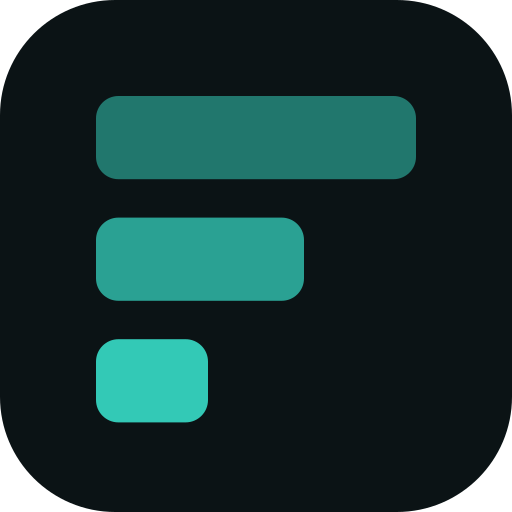
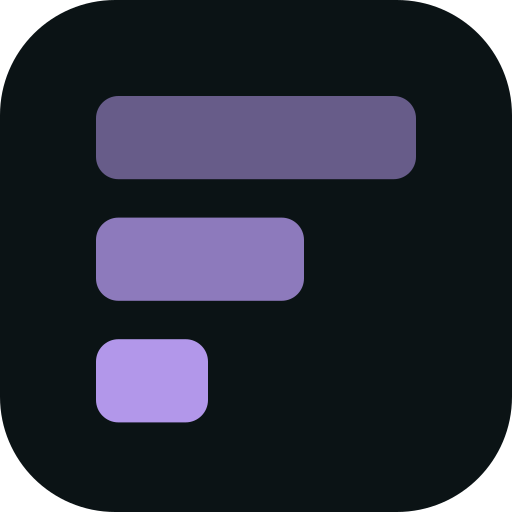
fix(brand): draw the brand assets from the theme tokens and regenerate them
The OG image and every favicon still shipped `#33c9b6`, the jade primary two
redesigns had removed. `generateBrandAssets.mjs` declared its four colours as
hex literals, so nothing tied them to `src/index.css` and a palette change left
the assets silently stale.

All four are now resolved from the dark theme block by `brandPalette.mjs`:
BRAND from `--color-primary`, INK from `--color-text`, CANVAS from
`--color-canvas`, MUTED from `--color-text-muted`. Only BRAND had actually gone
wrong — the three neutrals survived both redesigns unchanged — but all four
carried the same exposure, one palette change away from the identical bug.

BRAND maps to the accent rather than `--color-primary-fill`: the mark bars, the
top rule and the footer line are graphical marks on a dark ground, which is the
accent's job. A missing token throws rather than falling back; the silent
fallback in the SEO script is what kept localhost in production for a phase.

The first drift check written for this was close to worthless and is worth
naming. Asserting the generator's colours equal the tokens cannot fail once the
generator reads those tokens — both sides read one file and always agree. The
failure that actually happened was that nobody re-ran `npm run assets`, so the
*committed assets* kept the old colour. The real assertion reads
`public/favicon.svg`, the one committed asset that is text and is written by the
same run as the PNGs, and fails if it carries a colour the palette no longer
[…]

Changed region(s): [[0.1875, 0.1875, 0.8125, 0.375], [0.1875, 0.4062, 0.5938, 0.5938], [0.1875, 0.6562, 0.4062, 0.8438]]

diff --git a/client/tests/config/brandPalette.test.ts b/client/tests/config/brandPalette.test.ts
@@ -1,0 +1,86 @@
+import { describe, expect, it } from 'vitest';
+// @ts-expect-error -- a build script, deliberately plain .mjs rather than part
+// of either TypeScript project: it runs from npm before Vite or tsc are
+// involved, and giving it a tsconfig would mean compiling it first.
+import * as brandPalette from '../../scripts/brandPalette.mjs';
+import { readFileSync } from 'node:fs';
+import { resolve } from 'node:path';
+import { readThemeTokens, type Rgb } from '../utils/contrast';
+
+const readBrandPalette = brandPalette.readBrandPalette as (css?: string) => Record<string, string>;
+const SOURCE_TOKENS = brandPalette.SOURCE_TOKENS as Record<string, string>;
+
+const hex = ([r, g, b]: Rgb): string =>
+  `#${[r, g, b].map((value) => value.toString(16).padStart(2, '0')).join('')}`;
+
+/**
+ * The drift check for the bug that shipped jade favicons and a jade OG image
+ * for two redesigns after the app had stopped using jade.
+ *
+ * `generateBrandAssets.mjs` declared its four colours as hex literals, so
+ * nothing connected them to `src/index.css` and a palette change left them
+ * silently stale. The generator now derives them; this asserts the derivation
+ * agrees with the tokens the app actually ships.
+ *
+ * The comparison is deliberately against `readThemeTokens` — a second,
+ * independently written reader of the same file — rather than against literals
+ * restated here. Literals are what caused the bug, and that reader is exercised
+ * by every assertion in `tokenContrast.test.ts`, so a parser that quietly
+ * mis-read would break those first.
+ */
+describe('brand asset palette', () => {
+  const tokens = readThemeTokens('dark');
+  const palette = readBrandPalette();
+
+  it.each(Object.entries(SOURCE_TOKENS))('draws %s from the shipped --%s token', (name, token) => {
+    const shipped = tokens[token];
+
+    expect(shipped, `--${token} is missing from the dark theme block`).toBeDefined();
+    expect(palette[name]).toBe(hex(shipped));
+  });
+
+  it('resolves every colour the generator needs', () => {
+    expect(Object.keys(palette).sort()).toEqual(Object.keys(SOURCE_TOKENS).sort());
+    for (const value of Object.values(palette)) {
+      expect(value).toMatch(/^#[0-9a-f]{6}$/);
+    }
+  });
+
+  // The specific failure this exists to prevent: the app moves to a new primary
+  // and the committed assets keep the old one.
+  it('no longer resolves to the jade primary the redesign removed', () => {
+    expect(palette.brand).not.toBe('#33c9b6');
+  });
+
+  // A missing token must be loud. A silent fallback is what kept
+  // `http://localhost:5173` in the sitemap for a whole phase, and a brand asset
+  // drawn in a default colour would fail the same invisible way.
+  it('throws rather than defaulting when a token is absent', () => {
+    const withoutPrimary = "[data-theme='dark'] { --color-text: 227 237 235; }";
+
+    expect(() => readBrandPalette(withoutPrimary)).toThrow(/--color-primary is missing/);
+  });
+
+  /*
+    This is the assertion that would actually have caught the bug.
+
+    Deriving the generator's colours stops a *literal* going stale, but it does
+    nothing about the failure that really happened: the palette changed, nobody
+    re-ran `npm run assets`, and the committed PNGs kept the old colour while
+    the script would have produced the new one. Checking the script against the
+    tokens cannot see that — both sides read the same file and always agree.
+
+    `favicon.svg` is the one committed asset that is text, and it is written by
+    the same run that writes the PNGs, so it stands in for all of them. If it
+    carries a colour the palette no longer contains, the assets are stale and
+    need regenerating.
+  */
+  it('has committed assets drawn in the current palette, not a previous one', () => {
+    const svg = readFileSync(resolve(process.cwd(), 'public/favicon.svg'), 'utf8');
+    const used = [...new Set(svg.match(/#[0-9a-f]{6}/g) ?? [])].sort();
+
+    expect(used, 'run `npm run assets -w client` — the committed assets are stale').toEqual(
+      [palette.brand, palette.canvas].sort(),
+    );
+  });
+});

diff --git a/DECISIONS.md b/DECISIONS.md
@@ -2344,3 +2344,41 @@ The half deferred when the phase was split. Closes Phase 11.
   redesigns ago replaced, so every generated brand asset ships a colour the app no longer uses.
   That is palette staleness rather than domain staleness, and it is unrelated to this bug, so it
   was raised separately rather than folded in.
+
+## Brand assets are drawn from the tokens, and the committed copies are checked
+
+- **The four brand colours are parsed out of `src/index.css` instead of being hex literals.**
+  `BRAND`, `INK`, `CANVAS` and `MUTED` were hand-copied from the dark theme block, so nothing tied
+  them to the palette. Only `BRAND` had actually gone wrong — it was still `#33c9b6`, the jade two
+  redesigns had removed — but all four carried the same exposure, one palette change away from the
+  identical bug. `brandPalette.mjs` now resolves all four from `--color-primary`, `--color-text`,
+  `--color-canvas` and `--color-text-muted`.
+
+- **`brand` maps to `--color-primary`, not `--color-primary-fill`.** The mark bars, the top rule
+  and the footer line are graphical marks on a dark ground, which is the accent's job; the fill
+  token exists for solid buttons carrying white text.
+
+- **Regex parsing, not a CSS parser.** The same two patterns `tests/utils/contrast.ts` already
+  uses, and `src/index.css` documents the constraint they depend on: every declaration in those
+  blocks is a flat `--name: value;`, because a nested rule would truncate a match bounded by
+  `[^}]*`. The value grammar is three integers, with no `calc()`, `var()` or colour functions in
+  play. A full parser would be more machinery against a file whose shape is already contractual
+  and enforced by the contrast suite.
+
+- **A missing token throws.** No fallback. The silent `??` fallback in the SEO script is what kept
+  `http://localhost:5173` in production for a whole phase, and a brand asset quietly drawn in a
+  default colour would fail the same invisible way.
+
+- **The first version of the drift check was close to worthless, and that is worth recording.**
+  Asserting the generator's resolved colours equal the tokens cannot fail once the generator reads
+  those tokens — both sides read one file and always agree. It looks like a check and tests
+  nothing. The failure that actually happened was different: the palette changed, nobody re-ran
+  `npm run assets`, and the _committed assets_ kept the old colour. So the real assertion reads
+  `public/favicon.svg` — the one committed asset that is text, written by the same run as the PNGs
+  — and fails if it carries a colour the palette no longer contains. Verified by restoring the
+  jade `favicon.svg` from git: it fails with "run `npm run assets -w client` — the committed
+  assets are stale".
+
+- **This commit contains regenerated binaries.** Nine files under `client/public/` — the OG image,
+  both favicon PNGs, the ICO, the SVG, all three app icons and the Apple touch icon. Unlike the
+  last few fixes, the asset change _is_ the fix; the code change only stops it recurring.
